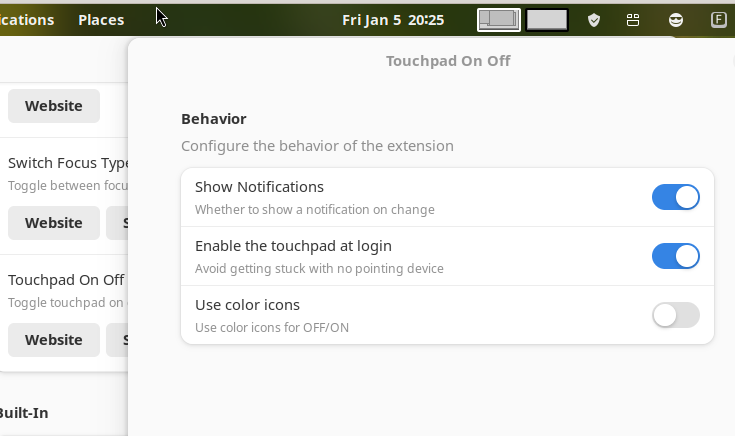
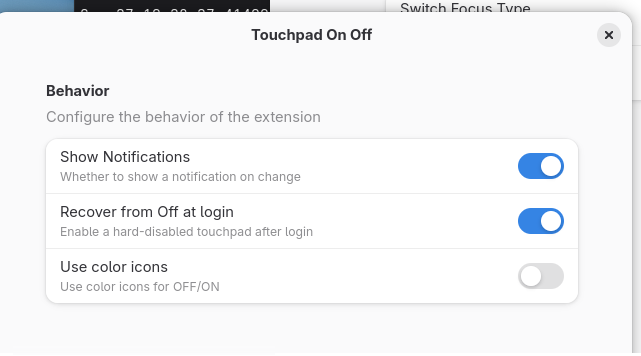
Remove the "open confs on right click"
This is unexpected on most panel buttons; the normal way
would be to open a menu and, from there, choose to open
settings. Let things as they were for now.

Adjust README and screenshot for the new version

diff --git a/TouchpadOnOff@romano.rgtti.com/extension.js b/TouchpadOnOff@romano.rgtti.com/extension.js
@@ -25,26 +25,29 @@ export default class TouchpadOnOff extends Extension {
         });
         this._settings = this.getSettings();
 
-        // let use just one icon, we will change the content in _syncIcon()
+        // The last true is to NOT create a menu associated with the button
         this._indicator = new PanelMenu.Button(0.0, this.metadata.name, true);
+        // let use just one icon, we will change the content in _syncIcon()
         this._icon = new St.Icon({style_class: 'system-status-icon'});
         this._indicator.add_child(this._icon);
 
-        // Instead of using raw events, just use one "controller"
-        // to handle both pointer clicks and touchscreen taps.
+        // Direct actor event signals are deprecated in GNOME Shell 51.
         // https://gjs.guide/extensions/upgrading/gnome-shell-51.html#clutter-controllers
+        // ClickGesture also gives us one controller for pointer clicks and
+        // touchscreen taps. Recognition happens on release, allowing a
+        // pointer/touch sequence to be cancelled before it toggles the mode.
+        // This is an enhacement with respect the older versions, which did
+        // not react to touchscreen taps. Reserve the secondary button for future
+        // enhancement, like firing a menu.
+        // Notice that PanelMenu.Button *does* define an internal ClickGesture,
+        // but it's not enabled if the menu is not created:
+        // https://gitlab.gnome.org/GNOME/gnome-shell/-/blob/main/js/ui/panelMenu.js#L110
+        // so I can safely define my own with my parameters
         const clickGesture = new Clutter.ClickGesture({
             required_button: Clutter.BUTTON_PRIMARY,
         });
         clickGesture.connect('recognize', () => this._toggle());
         this._indicator.add_action(clickGesture);
-        // right click opens the openPreferences
-        const prefsGesture = new Clutter.ClickGesture({
-            required_button: Clutter.BUTTON_SECONDARY,
-            recognize_on_press: true,
-        });
-        prefsGesture.connect('recognize', () => this.openPreferences());
-        this._indicator.add_action(prefsGesture);
         // Connect events
         this._sendEventsId = this._touchpadSettings.connect(
             'changed::send-events', () => this._syncIcon());

diff --git a/README.md b/README.md
@@ -4,33 +4,36 @@ By Romano Giannetti <romano@rgtti.com> , <romano.giannetti@gmail.com>
 
 ### Rationale
 
-Most laptops have a key combination (usually some Fn-*thing*) to enable/disable the touchpad.
-But not all of them. My Lenovo Yoga L13, for example, doesn't have one.
-This extension just enables/disables the touchpad;
-by default, it restores the touchpad in the enabled state when you logout and login,
-but you can choose just to remember the old state in the options.
+Most laptops have a key combination (usually some Fn-*thing*) to enable/disable
+the touchpad. But not all of them. My Lenovo Yoga L13, for example, doesn't
+have one. This extension just enables/disables the touchpad; by default, it
+restores the touchpad in the enabled state when you logout and login, but you
+can choose just to remember the old state in the options.
 
 ### Features
 
-Click (or tap with a touchscreen, [thanks to Lasse Yledahl](https://github.com/Rmano/gse-touchpad-onoff/pull/3)) on the icon to change from Touchpad On to Off.
+Click (or tap with a touchscreen, [thanks to Lasse
+Yledahl](https://github.com/Rmano/gse-touchpad-onoff/pull/3)) on the icon to
+change from Touchpad On to Off.
 
 Each primary click toggle the status.
-
-A secondary (right) click is a shortcut to open the preferences window.
 
 ### Options
 
 * You can choose to have a notification for each change of status or not.
-(default yes)
-* You can choose if the touchpad starts enabled after login (default yes) or if it remembers the last value.
-* You can opt for more colorful icons if you do not like the standard ones (contributed by [@corebots](https://github.com/Rmano/gse-touchpad-onoff/issues/1)).
+  (default yes)
+* You can choose if the touchpad starts enabled after login (default yes) or if
+  it remembers the last value.
+* You can opt for more colorful icons if you do not like the standard ones
+  (contributed by
+  [@corebots](https://github.com/Rmano/gse-touchpad-onoff/issues/1)).
 
 ![screenshot](screenshot.png)
 
 ### I'm stuck!
 
-If you are stuck without mouse or touchpad, open a terminal window
-or the command prompt of GNOME shell (with Alt-F2) and issue
+If you are stuck without mouse or touchpad, open a terminal window or the
+command prompt of GNOME shell (with Alt-F2) and issue
 
     gsettings set org.gnome.desktop.peripherals.touchpad send-events enabled
 
@@ -40,6 +43,15 @@ or the command prompt of GNOME shell (with Alt-F2) and issue
 
 The versions from 10 upward are **only** for GNOME Shell v50 or higher.
 
-* There has been a complete rewrite to follow the [deprecations of interfaces](https://gjs.guide/extensions/upgrading/gnome-shell-51.html#clutter-controllers) that happened there and to use the [new button and connectors interfaces](https://gjs.guide/extensions/upgrading/gnome-shell-51.html#clutter-controllers).
+* There has been a complete rewrite to follow the [deprecations of
+  interfaces](https://gjs.guide/extensions/upgrading/gnome-shell-51.html#clutter-controllers)
+  that happened there and to use the [new button and connectors
+  interfaces](https://gjs.guide/extensions/upgrading/gnome-shell-51.html#clutter-controllers).
 
-* Added support for GNOME's [automatic touchpad disabling when an external mouse is connected](https://release.gnome.org/51/#settings-improvements). In automatic mode, the extension displays a dedicated dimmed icon and leaves touchpad control to GNOME. A primary click explains why no change is made, while a secondary click opens the extension preferences. The underlying setting exists in GNOME 50 and is exposed in Mouse & Touchpad Settings starting with GNOME 51.
+* Added support for GNOME's [automatic touchpad disabling when an external
+  mouse is connected](https://release.gnome.org/51/#settings-improvements). In
+  automatic mode, the extension displays a dedicated dimmed icon and leaves
+  touchpad control to GNOME. A primary click pop-ups a dialogue explaining why
+  no change is made. The underlying setting exists in GNOME 50 and is exposed
+  in Mouse & Touchpad Settings starting with GNOME 51.
+
